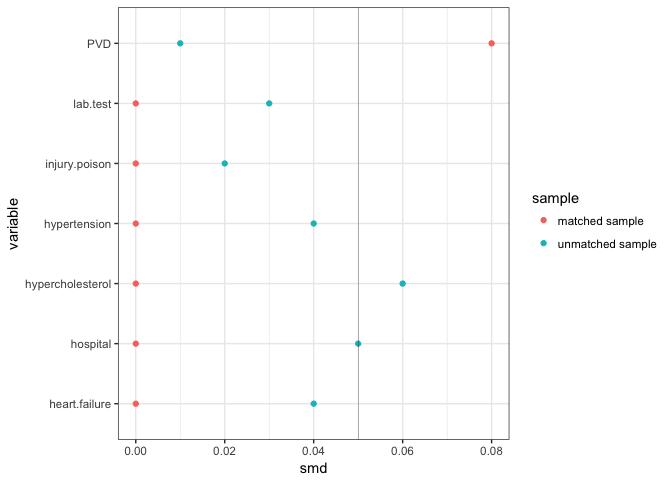
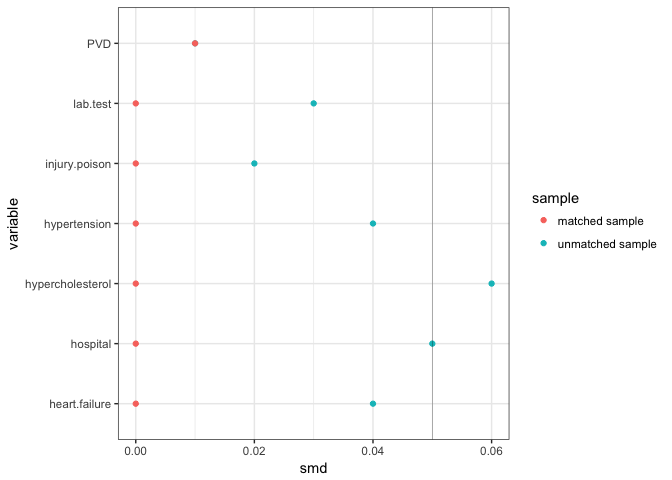
fixed typos in propensity score  markdown

diff --git a/SynPUF-propensity-model.md b/SynPUF-propensity-model.md
@@ -3,8 +3,6 @@ SynPUF-propensity-model
 Erika Braithwaite
 2018-05-23
 
-A total of 23
-
 First select individuals above 40 at the time they first showed up in the dataset; then exclude anyone died within one year; then select individuals with statin prescription after 2009-01-01 (set first prescription date as cohort entry date); then exclude anyone who took lipid-lowering drugs before 2009-01-01; also exclude anyone who had dialysis one year before cohort entry
 
 ### Table 1. Covariate balance in total sample N = 839
@@ -36,9 +34,7 @@ kable(model$nn)
 | Unmatched |     5389|        0|
 | Discarded |        0|        0|
 
-10 were successfully matched with controls
-
-### Pruned data frame with 1:1
+### Pruned data
 
 |                            | low statin | high statin |    SMD    |
 |----------------------------|:----------:|:-----------:|:---------:|
@@ -65,12 +61,14 @@ kable(model$nn)
 
 ### Distribution of standardized mean differences before and after matching
 
-![](SynPUF-propensity-model_files/figure-markdown_github/unnamed-chunk-1-1.png)
+![](SynPUF-propensity-model_files/figure-markdown_github/distribution-plot-matched-1.png)
 
 ### Distribution of propensity scores in matched and unmatched sample
 
-![](SynPUF-propensity-model_files/figure-markdown_github/distribution-plot-1.png)
+![](SynPUF-propensity-model_files/figure-markdown_github/distribution-plot-unmatched-1.png)
 
 ### Outcome models
+
+    ## Warning: Removed 1 rows containing missing values (geom_pointrange).
 
 ![](SynPUF-propensity-model_files/figure-markdown_github/Plot-models-1.png)
